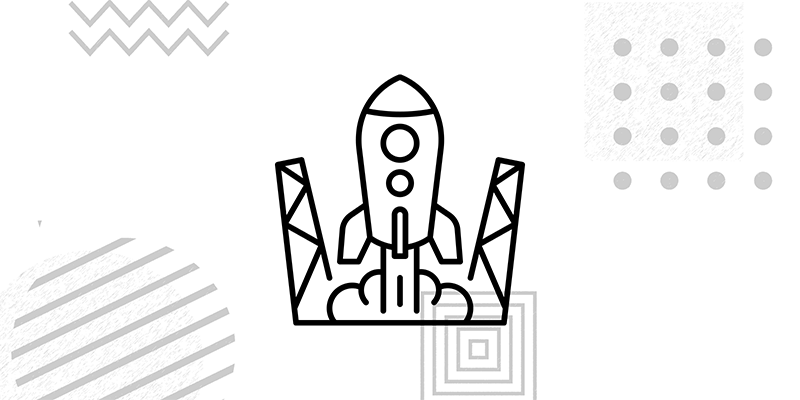
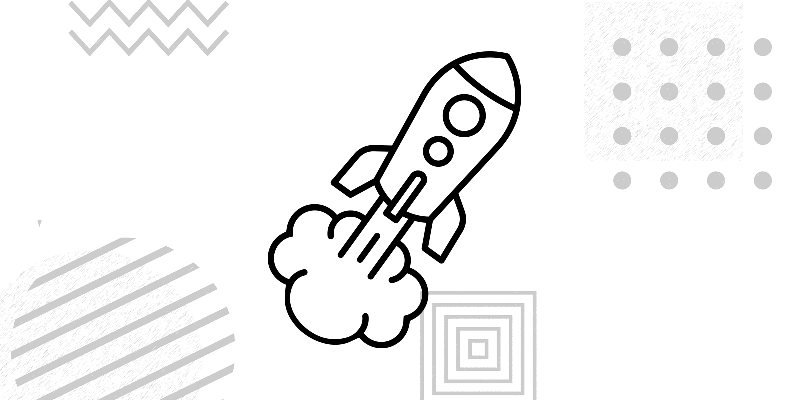
Update Header Images
Update Header Images for Getting Started and Neural Network

Changed region(s): [[0.3125, 0.12, 0.6562, 0.87]]

diff --git a/docs/reference/facemesh.md b/docs/reference/facemesh.md
@@ -18,6 +18,7 @@ It provides the following functionalities:
 - **Multiple Faces**: Detect multiple faces at the same time. You can specify the maximum number of faces to detect.
 
 ## Quick Start
+
 Run and explore a pre-built example! [This FaceMesh example](https://editor.p5js.org/ml5/sketches/lCurUW1TT) displays 468 facial landmarks that describe the geometry of each face in real-time from the webcam.
 
 </br>
@@ -25,14 +26,17 @@ Run and explore a pre-built example! [This FaceMesh example](https://editor.p5js
 [DEMO](iframes/facemesh-keypoints ":include :type=iframe width=100% height=550px")
 
 ## Examples
+
 - [FaceMesh Keypoints](https://editor.p5js.org/ml5/sketches/lCurUW1TT): Draw the keypoints of the detected face from the webcam.
 - [FaceMesh Single Image](https://editor.p5js.org/ml5/sketches/lqQZrDJHF): Detect the keypoints of the face from a single image.
 - [FaceMesh Parts](https://editor.p5js.org/ml5/sketches/9y9W7eAee): Draw specific face parts of the detected face.
 
 ## Step-by-Step Guide
-Now, let's together build the [FaceMesh Keypoints example]((https://editor.p5js.org/ml5/sketches/lCurUW1TT)) from scratch, and in the process, learn how to use the FaceMesh model.
+
+Now, let's together build the [FaceMesh Keypoints example](<(https://editor.p5js.org/ml5/sketches/lCurUW1TT)>) from scratch, and in the process, learn how to use the FaceMesh model.
 
 ### Create a new project
+
 To follow along, start by creating an empty project in the [p5.js web editor](https://editor.p5js.org/).
 
 ### Set up ml5.js
@@ -45,6 +49,7 @@ Import the ml5.js library in your `index.html` file.
 ?> If you are not familiar with how to import the ml5.js library and need more detailed guidance, please check out our [Getting Started](/?id=set-up-ml5js) page.
 
 ### Load model
+
 Let's open the `sketch.js` file and define a variable to store the FaceMesh model.
 
 ```javascript
@@ -56,6 +61,7 @@ Next, we can create a `options` object to customize the model's behavior. For ex
 ```javascript
 let options = { maxFaces: 1, refineLandmarks: false, flipHorizontal: false };
 ```
+
 ?> If you would like to know more about the available configuration settings for `options`, please check out the [Methods](/reference/facemesh?id=methods) section.
 
 Now, we are ready to load a model configed as `options` specifies and store it in the `faceMesh` variable.
@@ -94,6 +100,7 @@ Fetch the webcam video, resize it to fit the canvas, and hide it from the displa
 ```
 
 ### Detect keypoints with the model
+
 Define a `faces` variable to store the detected faces. Note that the `faces` variable will store an array of detected faces, and each face has a property `keypoints` that will contain an array of keypoints.
 
 ```javascript
@@ -101,6 +108,7 @@ let faces = [];
 ```
 
 To start detecting the keypoints of the face, in the `setup` function, we need to call the `detectStart` method of the `faceMesh` object. This method takes the webcam video as input and a callback function to handle the output.
+
 ```javascript
 function setup() {
   ...
@@ -122,26 +130,31 @@ function gotFaces(results) {
 ```
 
 ### Draw keypoints on the canvas
+
 In the `draw()` function, draw the webcam video on the canvas.
-  
+
 ```javascript
 function draw() {
   image(video, 0, 0, width, height);
 ```
 
-Iterate all faces of the `faces` array, fetch the `i`th dectected face, and store it in the `face` variable. 
+Iterate all faces of the `faces` array, fetch the `i`th dectected face, and store it in the `face` variable.
 
 ```javascript
 // Draw all the tracked face points
   for (let i = 0; i < faces.length; i++) {
     let face = faces[i];
 ```
+
 Iterate though all the keypoints of the `i`th detected face, fetch the `j`th keypoint, and store it in the `keypoint` variable.
+
 ```javascript
     for (let j = 0; j < face.keypoints.length; j++) {
       let keypoint = face.keypoints[j];
 ```
+
 Draw a green circle at the location of the `j`th keypoint.
+
 ```javascript
       fill(0, 255, 0);
       noStroke();
@@ -150,9 +163,11 @@ Draw a green circle at the location of the `j`th keypoint.
   }
 }
 ```
+
 Note we are iterating through all the keypoints (j is ranging from 0 to the length of the keypoints array) of the detected face (i is ranging from 0 to the length of the faces array). This will result in green landmarks on all detected face(s) in the webcam video. In our case, we set the maximum number of faces to detect to 1 in the `options` object (`maxFaces: 1`), so we will only see landmarks on one face.
 
 ### Run your sketch
+
 And, that's it! You have successfully built the FaceMesh Keypoints example from scratch. Press the <img class="inline-img" src="assets/facemesh-arrow-forward.png" alt="tip icon" aria-hidden="true"> `run` button to see the code in action. You can also find the complete code [here](https://editor.p5js.org/ml5/sketches/lCurUW1TT).
 
 ?> If you have any questions or spot something unclear in this step-by-step code guide, we'd love to hear from you! Join us on [Discord](https://discord.com/invite/3CVauZMSt7) and let us know how we can make it better.
